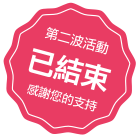
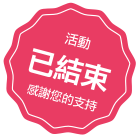
footer update

Changed region(s): [[0.3143, 0.1739, 0.8, 0.4058]]

diff --git a/stylesheets/all.css b/stylesheets/all.css
@@ -539,7 +539,8 @@ form { margin-bottom: 48px; }
 .page-inner.index { padding-bottom: 0; }
 .page-inner.index:before, .page-inner.index:after { display: none; }
 
-.end-sticker { position: absolute; z-index: 1000; bottom: 72px; right: 12px; text-indent: -119988px; overflow: hidden; text-align: left; background-image: url('/images/sticker.png?1439626649'); background-repeat: no-repeat; background-position: 50% 50%; width: 140px; height: 138px; background-image: none, url('/images/sticker.svg?1439626649'); background-position: center center; -webkit-background-size: contain; -moz-background-size: contain; -o-background-size: contain; background-size: contain; }
+.end-sticker { position: absolute; z-index: 1000; bottom: 72px; right: 12px; text-indent: -119988px; overflow: hidden; text-align: left; background-image: url('/images/sticker.png?1440580787'); background-repeat: no-repeat; background-position: 50% 50%; width: 140px; height: 138px; background-image: none, url('/images/sticker.svg?1440580787'); background-position: center center; -webkit-background-size: contain; -moz-background-size: contain; -o-background-size: contain; background-size: contain; }
+.end-sticker.wave-two { text-indent: -119988px; overflow: hidden; text-align: left; background-image: url('/images/sticker-w2.png?1439626649'); background-repeat: no-repeat; background-position: 50% 50%; width: 140px; height: 138px; background-image: none, url('/images/sticker-w2.svg?1439626649'); background-position: center center; -webkit-background-size: contain; -moz-background-size: contain; -o-background-size: contain; background-size: contain; }
 @media (min-width: 47em) { .end-sticker { top: 48px; right: 48px; } }
 
 .donate-index:after { content: ""; display: table; clear: both; }
@@ -573,8 +574,8 @@ form { margin-bottom: 48px; }
 @media (min-width: 1023px) { .donate-index .title { font-size: 34px; line-height: 42px; }
   .donate-index .mainevent { float: left; width: 50%; }
   .donate-index .otherevent { float: right; width: 50%; }
-  .donate-index .donate-content, .donate-index .smartcards-content { max-width: 960px; height: 50vh; margin: 0 auto 0 0; padding: 56px; }
-  .donate-index .daebyday-content { height: 100vh; padding: 56px; }
+  .donate-index .donate-content, .donate-index .daebyday-content { max-width: 960px; height: 50vh; margin: 0 auto 0 0; padding: 56px; }
+  .donate-index .donate-content { height: 100vh; padding: 56px; }
   .donate-index .daebyday-countdown { bottom: 56px; left: 56px; }
   .donate-index .daebyday-countdown .countdown-title { margin-bottom: 24px; font-size: 18px; line-height: 24px; }
   .donate-index .daebyday-countdown .countdown-timer { font-size: 72px; line-height: 72px; }

diff --git a/sass/page/_index.sass b/sass/page/_index.sass
@@ -10,6 +10,9 @@
   right: 12px
   +replace-text-with-svg('sticker')
 
+  &.wave-two
+    +replace-text-with-svg('sticker-w2')
+
   +at-breakpoint($pad)
     top: 48px
     right: 48px
@@ -169,13 +172,13 @@
       float: right
       width: 50%
 
-    .donate-content, .smartcards-content
+    .donate-content, .daebyday-content
       max-width: ( 1920 / 2 )+px
       height: 50vh
       margin: 0 auto 0 0
       padding: 56px
 
-    .daebyday-content
+    .donate-content
       height: 100vh
       padding: 56px
 
